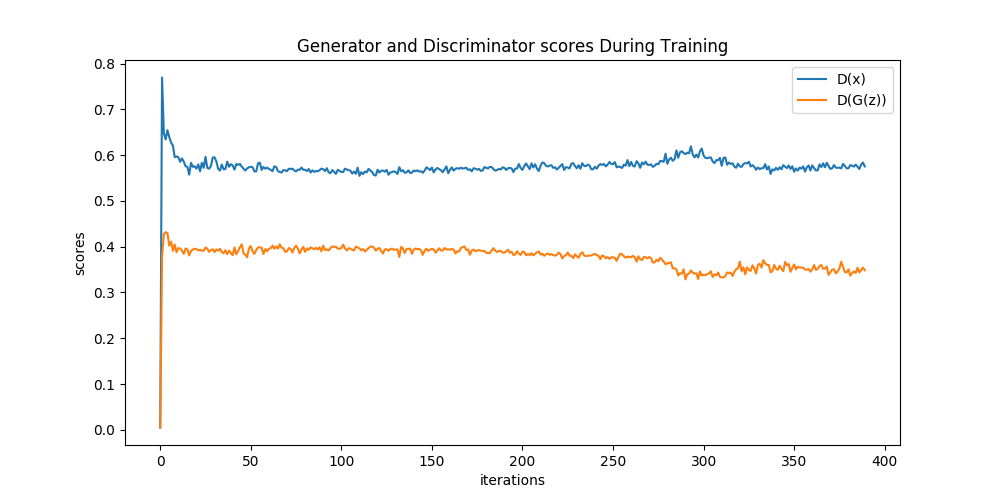
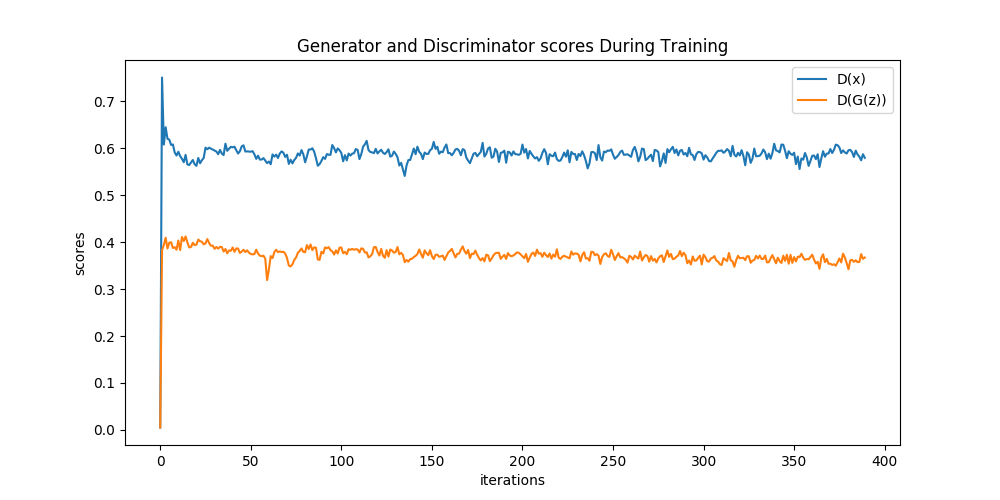
Modif : IT

diff --git a/W3_IT_gan/gan.py b/W3_IT_gan/gan.py
@@ -179,7 +179,7 @@ for epoch in range(opt.n_epochs):
 		#  Train Discriminator
 		# ---------------------
 		
-		if current_d_g_z > 0.4 or current_d_x < 0.6 or epoch == 0:
+		if g_loss > 0.9 or epoch == 0:
 			optimizer_D.zero_grad()
 
 			# Measure discriminator's ability to classify real from generated samples
